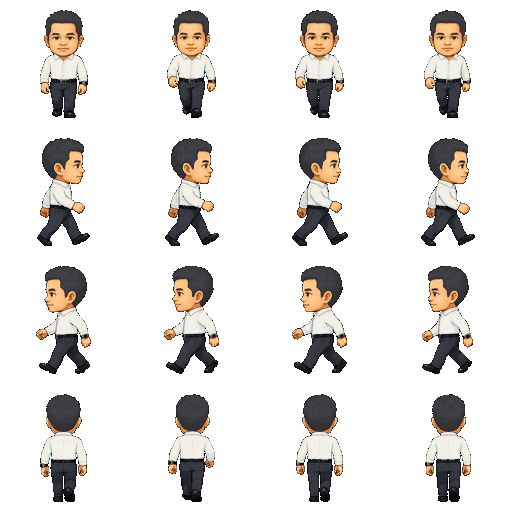
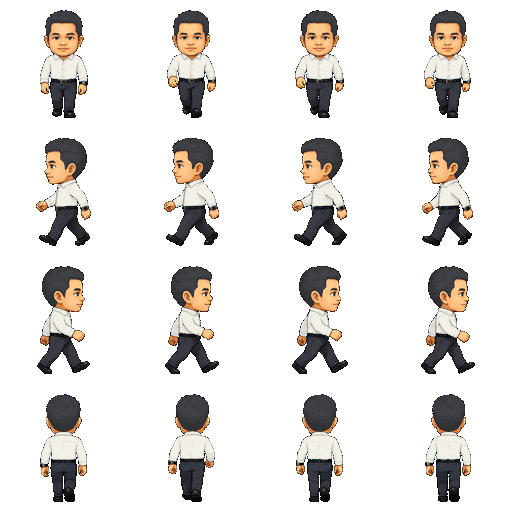
Make the default player character high-resolution with recolor support
The base character everyone starts with (no outfit equipped) now uses
the office_male/office_female sprites from office-avatar-sprites instead
of the legacy 32x50 avatar — same source art the legacy sheet was
downscaled from, so proportions and default colors match exactly. The
legacy avatar system stays fully intact as a fallback (?sprite=none,
or if the hi-res asset fails to load) per the standing "never remove
legacy" constraint.

Hair/shirt recolor — previously legacy-only — now also works on the
hi-res sprite: sprites.js gained getCustomHiresCanvas(), which reuses
avatar.js's exact recolor algorithm (now exported) against the sheet's
hair/clothing masks and caches the result per (spriteId, hair, shirt)
combo. Remote players get the same treatment: net.js's addRemote() now
sets ent.hair/ent.shirt directly (previously only baked into the legacy
ent.sheet canvas, which drawHiresCharacter() never looked at).

Also fixes a bug in the executive import from the previous commit:
male_cro_spritesheet.png has its left/right rows swapped in the source
(confirmed by build_avatars.py's existing SWAP_LR_PREFIXES, which
already special-cased this exact file for the legacy system) — the
office exec importer didn't apply the same correction, so office_cro
was rendering backwards. Fixed via the same swap logic, applied
identically now.

diff --git a/game/js/sprites.js b/game/js/sprites.js
@@ -13,8 +13,10 @@
 
 import { directionIndex } from "./entities.js";
 import { getSpriteDef } from "./sprites_manifest.js";
+import { applyMaskRecolor } from "./avatar.js";
 
-const _cache = new Map(); // id -> { img, promise, ready, failed }
+const _cache = new Map(); // id -> { img, promise, ready, failed, hairMaskImg, clothingMaskImg }
+const _customCache = new Map(); // `${id}|${hair}|${shirt}` -> HTMLCanvasElement (recolored whole sheet)
 
 function loadImage(src) {
   return new Promise(resolve => {
@@ -28,23 +30,74 @@ function loadImage(src) {
 // เรียกล่วงหน้าตอนรู้แล้วว่าจะใช้ id ไหน (เลือกตัวละครตอนสร้าง + NPC ที่มีจริงในฉากเท่านั้น —
 // "ห้าม preload ทุกตัวละครในระบบ" ตาม requirement H) คืน promise เดิมถ้าเคยเรียกไปแล้ว
 // (ไม่โหลดซ้ำ) resolve เสมอไม่ว่าจะสำเร็จหรือพัง (ไม่ throw — เกมต้องไม่ crash ถ้า asset หาย)
+// ถ้า def มี hairMask/clothingMask (ตัวละครที่ปรับสีได้ เช่น office_male/office_female) โหลด
+// มาสก์คู่กันไปเลย จะได้พร้อมใช้ recolor ทันทีที่ตัวสไปรท์หลักพร้อม ไม่ต้องรอ preload แยกรอบสอง
 export function preloadSprite(id) {
   const def = getSpriteDef(id);
   if (!def) return Promise.resolve(null);
   let entry = _cache.get(id);
   if (entry) return entry.promise;
-  entry = { img: null, ready: false, failed: false, promise: null };
-  entry.promise = loadImage(def.image).then(({ img, ok }) => {
-    entry.img = img;
-    if (ok) entry.ready = true;
+  entry = { img: null, ready: false, failed: false, promise: null, hairMaskImg: null, clothingMaskImg: null };
+  const loads = [loadImage(def.image)];
+  loads.push(def.hairMask ? loadImage(def.hairMask) : Promise.resolve(null));
+  loads.push(def.clothingMask ? loadImage(def.clothingMask) : Promise.resolve(null));
+  entry.promise = Promise.all(loads).then(([main, hair, clothing]) => {
+    entry.img = main.img;
+    if (main.ok) entry.ready = true;
     else {
       entry.failed = true;
       console.warn(`โหลดสไปรท์ตัวละคร "${id}" ไม่สำเร็จ (${def.image}) — ใช้ตัวละครเริ่มต้นแทน`);
     }
+    if (hair && hair.ok) entry.hairMaskImg = hair.img;
+    if (clothing && clothing.ok) entry.clothingMaskImg = clothing.img;
     return entry;
   });
   _cache.set(id, entry);
   return entry.promise;
+}
+
+// สร้าง (หรือคืนจาก cache) sheet ทั้งแผ่นที่ recolor ผม/เสื้อแล้ว — ใช้อัลกอริทึมเดียวกับ avatar.js
+// เป๊ะ (คงความสว่างเดิมของแต่ละพิกเซล คูณด้วยสีเป้าหมาย) แค่ทำงานบน sheet เต็ม (grid 4x4) แทน
+// แถบเดียว ต้อง sourceFrameWidth/Height ตรงกับที่ manifest ประกาศไว้เป๊ะ คืน null ถ้าไม่มีอะไรต้อง
+// recolor (ไม่มี hair/shirt เลือกไว้ หรือตัวละครนี้ไม่รองรับมาสก์) ให้ผู้เรียก fallback ไปใช้ภาพดิบ
+// cache ต่อ (id, hair, shirt) กันสร้าง canvas ใหม่ทุกเฟรม (ห้ามตาม requirement H)
+export function getCustomHiresCanvas(spriteId, hair, shirt) {
+  if (!hair && !shirt) return null;
+  const entry = _cache.get(spriteId);
+  if (!entry || !entry.ready) return null;
+  if ((hair && !entry.hairMaskImg) && (shirt && !entry.clothingMaskImg)) return null;
+  const key = `${spriteId}|${hair || ""}|${shirt || ""}`;
+  let canvas = _customCache.get(key);
+  if (canvas) return canvas;
+
+  const def = getSpriteDef(spriteId);
+  const w = def.sourceFrameWidth * def.columns, h = def.sourceFrameHeight * def.rows;
+  canvas = document.createElement("canvas");
+  canvas.width = w; canvas.height = h;
+  const ctx = canvas.getContext("2d");
+  ctx.imageSmoothingEnabled = false;
+  ctx.drawImage(entry.img, 0, 0, w, h, 0, 0, w, h);
+
+  const maskCanvas = document.createElement("canvas");
+  maskCanvas.width = w; maskCanvas.height = h;
+  const maskCtx = maskCanvas.getContext("2d");
+
+  const img = ctx.getImageData(0, 0, w, h);
+  const d = img.data;
+  if (hair && entry.hairMaskImg) {
+    maskCtx.clearRect(0, 0, w, h);
+    maskCtx.drawImage(entry.hairMaskImg, 0, 0, w, h, 0, 0, w, h);
+    applyMaskRecolor(d, maskCtx.getImageData(0, 0, w, h).data, hair);
+  }
+  if (shirt && entry.clothingMaskImg) {
+    maskCtx.clearRect(0, 0, w, h);
+    maskCtx.drawImage(entry.clothingMaskImg, 0, 0, w, h, 0, 0, w, h);
+    applyMaskRecolor(d, maskCtx.getImageData(0, 0, w, h).data, shirt);
+  }
+  ctx.putImageData(img, 0, 0);
+
+  _customCache.set(key, canvas);
+  return canvas;
 }
 
 // คืน HTMLImageElement ถ้าพร้อมวาดแล้ว (โหลดเสร็จและไม่พัง) — null ถ้ายังไม่เสร็จ/พัง/ไม่รู้จัก id
@@ -79,8 +132,11 @@ export function drawHiresCharacter(ctx, ent, hop = 0) {
   if (!ent.spriteId) return false;
   const def = getSpriteDef(ent.spriteId);
   if (!def) return false; // id ไม่รู้จัก (เช่น client เก่ากว่า/manifest ไม่ตรงกัน) — fallback เงียบ ๆ
-  const img = getSpriteImage(ent.spriteId);
-  if (!img) return false; // ยังโหลดไม่เสร็จ หรือโหลดพัง — fallback ไปวาด avatar เดิมแทน
+  const rawImg = getSpriteImage(ent.spriteId);
+  if (!rawImg) return false; // ยังโหลดไม่เสร็จ หรือโหลดพัง — fallback ไปวาด avatar เดิมแทน
+  // ตัวละครที่ปรับสีผม/เสื้อได้ (มี hairMask/clothingMask ใน manifest เช่น office_male/female) —
+  // ใช้ sheet ที่ recolor แล้วแทนถ้ามีการเลือกสี ไม่งั้นใช้ภาพดิบตามปกติ
+  const img = (ent.hair || ent.shirt) ? (getCustomHiresCanvas(ent.spriteId, ent.hair, ent.shirt) || rawImg) : rawImg;
 
   const dirIdx = directionIndex(ent);
   const frameIdx = frameIndexFor(ent, def);
@@ -110,12 +166,13 @@ export function drawHiresCharacter(ctx, ent, hop = 0) {
 // ---------- พรีวิวหน้าสร้างตัวละคร (section E) ----------
 // contain-fit ลง canvas ขนาด boxW x boxH โดยรักษาสัดส่วนเสมอ (ห้าม stretch/บีบ) ยึดตำแหน่งจาก
 // ground anchor เหมือนกันกับตอนวาดในเกมจริง (ไม่ใช่แค่กึ่งกลางกล่องเฉย ๆ)
-export function drawSpritePreview(ctx, canvas, spriteId, dir = "down") {
+export function drawSpritePreview(ctx, canvas, spriteId, dir = "down", hair = null, shirt = null) {
   const def = getSpriteDef(spriteId);
-  const img = getSpriteImage(spriteId);
+  const rawImg = getSpriteImage(spriteId);
   ctx.imageSmoothingEnabled = false;
   ctx.clearRect(0, 0, canvas.width, canvas.height);
-  if (!def || !img) return false;
+  if (!def || !rawImg) return false;
+  const img = (hair || shirt) ? (getCustomHiresCanvas(spriteId, hair, shirt) || rawImg) : rawImg;
   const boxW = canvas.width, boxH = canvas.height;
   const MARGIN = 0.92; // เผื่อขอบเล็กน้อยกันชนขอบกล่องพอดีเป๊ะ
   // คูณ visualScale ด้วยเพื่อให้พรีวิวตรงกับขนาดจริงตอนเดินในเกม (WYSIWYG กับ Phase H ที่ normalize

diff --git a/game/js/sprites_manifest.js b/game/js/sprites_manifest.js
@@ -153,6 +153,54 @@ export const SPRITE_MANIFEST = [
     tagOffsetY: 0,
   },
   {
+    id: "office_male",
+    name: "พนักงานชาย (ปรับสีผม/เสื้อได้)",
+    image: "assets/characters/office-male-walk-sheet.png",
+    sourceFrameWidth: 128,
+    sourceFrameHeight: 128,
+    columns: 4,
+    rows: 4,
+    directions: ["down", "left", "right", "up"],
+    framesPerDirection: 4,
+    frameDurationMs: 140,
+    displayWidth: 64,
+    displayHeight: 64,
+    anchorX: 64,
+    groundAnchorY: 118,
+    collisionWidth: 20,
+    collisionHeight: 14,
+    hairMask: "assets/characters/office-male-hair-mask.png",
+    clothingMask: "assets/characters/office-male-clothing-mask.png",
+    visualScale: 1,
+    visualOffsetX: 0,
+    visualOffsetY: 0,
+    tagOffsetY: 0,
+  },
+  {
+    id: "office_female",
+    name: "พนักงานหญิง (ปรับสีผม/เสื้อได้)",
+    image: "assets/characters/office-female-walk-sheet.png",
+    sourceFrameWidth: 128,
+    sourceFrameHeight: 128,
+    columns: 4,
+    rows: 4,
+    directions: ["down", "left", "right", "up"],
+    framesPerDirection: 4,
+    frameDurationMs: 140,
+    displayWidth: 64,
+    displayHeight: 64,
+    anchorX: 64,
+    groundAnchorY: 118,
+    collisionWidth: 20,
+    collisionHeight: 14,
+    hairMask: "assets/characters/office-female-hair-mask.png",
+    clothingMask: "assets/characters/office-female-clothing-mask.png",
+    visualScale: 1,
+    visualOffsetX: 0,
+    visualOffsetY: 0,
+    tagOffsetY: 0,
+  },
+  {
     id: "coral_psychic",
     name: "นักไซคิกปะการัง (รุ่นแรก)",
     image: "assets/characters/coral-psychic-walk-sheet.png",

diff --git a/game/js/main.js b/game/js/main.js
@@ -91,13 +91,14 @@ let chosenHair = saved.hair ?? null;    // null = สีเดิมของส
 let chosenShirt = saved.shirt ?? null;
 let chosenPet = saved.pet ?? null;      // null = ไม่มีสัตว์เลี้ยง
 let chosenOutfit = saved.outfit ?? null; // null = ไม่ใส่ชุดคอสตูม ใช้ตัวละครเดิม
-// ตัวละครฐานความละเอียดสูง (ดู sprites_manifest.js) — ไม่มี UI เลือกอีกต่อไป (ย้ายไปเป็น "ชุด"
-// ทั้งหมด, ดู outfit_menu.js) ตั้งใจไม่ restore จาก saved.spriteId แม้ localStorage เก่าจะมีค่าค้าง
-// อยู่ก็ตาม (ผู้เล่นที่เคยเลือกไว้ก่อนหน้านี้ต้องกลับไปเป็นตัวละครพื้นฐานเสมอ) — ตั้งได้แค่ผ่าน
-// ?sprite= URL param เท่านั้น (ใช้เทส ไม่ได้มีทางเข้าถึงจาก UI ปกติ)
-let chosenSpriteId = null;
+// ตัวละครฐานเริ่มต้น = สไปรท์ความละเอียดสูงจาก office-avatar-sprites (office_male/female) แทน
+// avatar เดิม 32x50 แล้ว — ยังปรับสีผม/เสื้อได้เหมือนเดิมทุกประการ (ผ่าน hairMask/clothingMask
+// ใน manifest, ดู sprites.js's getCustomHiresCanvas) ระบบ avatar เดิมยังอยู่ครบไม่ได้ลบ (ดู
+// updatePreview/startGame ด้านล่าง — เป็น fallback ถ้าตั้ง ?sprite=none หรือโหลดสไปรท์ไม่สำเร็จ)
 const HIRES_PREVIEW_BOX = 96; // กล่องพรีวิวใหญ่ (#avatar-preview) สี่เหลี่ยมจัตุรัส — contain-fit
-if (chosenSpriteId) preloadSprite(chosenSpriteId); // โหลดล่วงหน้าให้พรีวิวหน้าสร้างตัวละครไวขึ้น
+const GENDER_SPRITE_IDS = ["office_male", "office_female"];
+let chosenSpriteId = GENDER_SPRITE_IDS[chosenGender];
+preloadSprite(chosenSpriteId); // โหลดล่วงหน้าให้พรีวิวหน้าสร้างตัวละครไวขึ้น
 let chosenPetName = saved.petName ?? "";
 let chosenDept = saved.dept ?? TEAMS[Math.floor(Math.random() * TEAMS.length)].id; // สุ่มทีมให้ครั้งแรก เปลี่ยนได้เสมอ
 if (saved.name) document.getElementById("name-input").value = saved.name;
@@ -111,6 +112,8 @@ function refreshGenderButtons() {
 }
 genderPicker.querySelectorAll("button").forEach(b => b.addEventListener("click", () => {
   chosenGender = Number(b.dataset.gender);
+  chosenSpriteId = GENDER_SPRITE_IDS[chosenGender];
+  preloadSprite(chosenSpriteId);
   refreshGenderButtons();
   updatePreview();
 }));
@@ -203,19 +206,25 @@ function refreshPetPicker() {
 buildPetPicker();
 refreshPetPicker();
 
-// หน้าสร้างตัวละครไม่มี UI เลือกสไปรท์ความละเอียดสูงแล้ว (ย้ายไปเลือกเป็น "ชุด" ในเกมแทนทั้งหมด
-// ผ่านเมนู 👕 — ดู outfit_menu.js) เหลือแค่ตัวละครฐานเดิม (avatar ธรรมดา) ให้เลือกตอนสร้างตัวละคร
-// chosenSpriteId ตั้งค่าได้ทางเดียวคือ ?sprite= URL param (ใช้เทส) — ไม่ restore จาก localStorage
-// เก่าอีกต่อไป (ดูตอนประกาศตัวแปรด้านบน)
+// หน้าสร้างตัวละครไม่มี UI เลือก "ตัวละคร" อื่นนอกจากเพศแล้ว (ตัวเลือกที่เหลือทั้งหมดย้ายไปเป็น
+// "ชุด" ในเกมแทน ผ่านเมนู 👕 — ดู outfit_menu.js) แต่ตัวละครฐานตอนนี้เป็นสไปรท์ความละเอียดสูง
+// (office_male/female) แทน avatar เดิม 32x50 — chosenSpriteId ปกติตั้งตามเพศเสมอ (ดูตอน
+// ประกาศตัวแปรด้านบน) เปลี่ยนเป็นตัวอื่น/ปิดกลับไปใช้ avatar เดิมได้แค่ผ่าน ?sprite= URL param
+// (ใช้เทส) เท่านั้น — ไม่มีทางเข้าถึงจาก UI ปกติ
 function updatePreview() {
   const canvas = document.getElementById("avatar-preview");
-  document.getElementById("custom-cols").classList.toggle("hidden", !!chosenSpriteId);
+  const def = chosenSpriteId ? getSpriteDef(chosenSpriteId) : null;
+  // ซ่อนแถบสีผม/เสื้อเฉพาะตอนตัวละครที่เลือกไว้ (ผ่าน ?sprite= เทส) ไม่รองรับ recolor เลย
+  // (ไม่มี hairMask/clothingMask ใน manifest) — โหมดปกติ (office_male/female หรือ avatar เดิม)
+  // ปรับสีได้เสมอ
+  const supportsRecolor = !chosenSpriteId || !!(def && (def.hairMask || def.clothingMask));
+  document.getElementById("custom-cols").classList.toggle("hidden", !supportsRecolor);
   if (chosenSpriteId) {
     // ขนาดจริง (attribute) ต้องตรงกับขนาดแสดงผล (CSS) เป๊ะ กันภาพถูกยืด/บีบสัดส่วนตอนเบราว์เซอร์
     // scale ให้พอดีกล่อง — โหมด avatar ปกติใช้ CSS ที่ตั้งไว้ล่วงหน้า (64x96) ไม่ต้องยุ่ง inline style
     canvas.width = HIRES_PREVIEW_BOX; canvas.height = HIRES_PREVIEW_BOX;
     canvas.style.width = HIRES_PREVIEW_BOX + "px"; canvas.style.height = HIRES_PREVIEW_BOX + "px";
-    const draw = () => drawSpritePreview(canvas.getContext("2d"), canvas, chosenSpriteId, "down");
+    const draw = () => drawSpritePreview(canvas.getContext("2d"), canvas, chosenSpriteId, "down", chosenHair, chosenShirt);
     draw();
     preloadSprite(chosenSpriteId).then(draw); // เผื่อยังโหลดไม่เสร็จตอนกดเลือกครั้งแรก
     return;
@@ -299,8 +308,8 @@ function startGame() {
     ent.duelWinRate = n.duelWinRate;
     if (n.roomBox) ent.roomBox = n.roomBox.map(v => v * world.tile);
     if (n.hair || n.shirt) ent.sheet = makeCustomSheet(world, n.variant, { hair: n.hair, shirt: n.shirt });
-    // เผื่ออนาคตอยาก assign สไปรท์ความละเอียดสูงให้ NPC บางคน (data.js เพิ่ม n.spriteId เข้าไป) —
-    // ไม่มี NPC ไหนใช้ตอนนี้ (ทุกคนยังเป็นระบบ avatar เดิม) โค้ดนี้เป็น no-op จนกว่าจะมีคนตั้งค่า
+    // ผู้บริหารทั้ง 6 คนตั้ง spriteId ไว้ใน data.js (พอร์ตเรทเฉพาะจาก office-avatar-sprites) —
+    // NPC คนอื่นที่ไม่ได้ตั้งค่านี้ยังใช้ระบบ avatar เดิมตามปกติ
     if (n.spriteId) {
       ent.spriteId = n.spriteId;
       preloadSprite(n.spriteId); // เฉพาะ NPC ที่อยู่ในฉากจริงเท่านั้น (ไม่ preload สไปรท์ทั้งระบบ)

diff --git a/game/js/net.js b/game/js/net.js
@@ -127,6 +127,11 @@ export function addRemote(world, info) {
   });
   ent.dir = info.dir || "down";
   ent.tx = info.x; ent.ty = info.y;
+  // เก็บ hair/shirt ไว้ตรง ๆ ด้วย (ไม่ใช่แค่ baked ลง ent.sheet) — drawHiresCharacter() ใน
+  // sprites.js อ่านจาก ent.hair/ent.shirt ตรง ๆ เพื่อ recolor สไปรท์ความละเอียดสูง (office_male/
+  // female) ส่วน ent.sheet ยังคงไว้เป็น fallback ให้ระบบ avatar เดิมเหมือนก่อน
+  ent.hair = info.hair || null;
+  ent.shirt = info.shirt || null;
   if (info.hair || info.shirt) {
     ent.sheet = makeCustomSheet(world, ent.variant, { hair: info.hair, shirt: info.shirt });
   }

diff --git a/game/js/avatar.js b/game/js/avatar.js
@@ -18,7 +18,9 @@ function maskRowData(maskImg, variant, w, h, frameH) {
   return cx.getImageData(0, 0, w, h).data;
 }
 
-function applyMaskRecolor(d, maskData, targetHex) {
+// exported เพื่อให้ sprites.js (ตัวละครความละเอียดสูง) เรียกใช้อัลกอริทึม recolor เดียวกันได้
+// โดยไม่ต้อง duplicate โค้ด — ทำงานบน ImageData ธรรมดา ไม่ผูกกับขนาดเฟรม/เลย์เอาต์ระบบไหนเป็นพิเศษ
+export function applyMaskRecolor(d, maskData, targetHex) {
   const [tr, tg, tb] = hexToRgb(targetHex);
   let lo = 255, hi = 0;
   for (let i = 0; i < maskData.length; i += 4) {

diff --git a/scripts/build_character_manifest.py b/scripts/build_character_manifest.py
@@ -112,13 +112,17 @@ NAME_OVERRIDES = {
     "office_cfo": "CFO",
     "office_cdo": "CDO",
     "office_cro": "CRO",
+    "office_male": "พนักงานชาย (ปรับสีผม/เสื้อได้)",
+    "office_female": "พนักงานหญิง (ปรับสีผม/เสื้อได้)",
 }
 
-# Purpose-built executive portraits (pixel-art/office-avatar-sprites/) — separate from the
-# general pixel-art/**/*-walk-sheet.png discovery above because this set uses its own sheet
-# convention (see sprites.json: directions ["front","right","left","back"], not our usual
-# ["down","left","right","up"] — "right" and "left" are in the OPPOSITE order too) and its own
-# versioning scheme (bare name = v1, "_v2" suffix = newer). id -> latest source basename.
+# Purpose-built office/executive portraits (pixel-art/office-avatar-sprites/) — separate from
+# the general pixel-art/**/*-walk-sheet.png discovery above because this set uses its own
+# sheet convention (see sprites.json: directions ["front","right","left","back"], not our
+# usual ["down","left","right","up"] — "right" and "left" are in the OPPOSITE order too) and
+# its own versioning scheme (bare name = v1, "_v2" suffix = newer). id -> latest source
+# basename. "office_male"/"office_female" are the generic, freely-recolorable player-facing
+# variants (see HAIR/CLOTHING_MASK_IDS below); the rest are bespoke per-exec designs.
 OFFICE_AVATAR_DIR = ROOT / "pixel-art" / "office-avatar-sprites"
 OFFICE_EXEC_SOURCES = {
     "office_ceo": "male_ceo_v2",
@@ -127,7 +131,20 @@ OFFICE_EXEC_SOURCES = {
     "office_cdo": "female_cdo_v2",
     "office_cfo": "male_cfo",   # no v2 exists for this role
     "office_cro": "male_cro",  # no v2 exists for this role
+    "office_male": "male",
+    "office_female": "female",
 }
+
+# office-avatar-sprites ids whose hair_mask/clothing_mask should be wired into the manifest
+# for runtime recolor (see sprites.js's hi-res recolor support) — only the two generic
+# variants are meant to be freely recolored; the exec portraits are bespoke, used as-is
+# (matches build_avatars.py's precedent: "แถวที่ 2+ ... ใช้ as-is ไม่ recolor").
+OFFICE_RECOLORABLE_IDS = {"office_male", "office_female"}
+
+# male_cro_spritesheet.png's "right"/"left" rows are swapped in the source (confirmed by
+# build_avatars.py's SWAP_LR_PREFIXES, which already special-cases exactly this one file for
+# the legacy avatar system) — apply the same correction here.
+OFFICE_SWAP_LR_IDS = {"office_cro"}
 
 
 def to_id(stem: str) -> str:
@@ -252,16 +269,18 @@ def fix_swapped_lr(dest_png: Path, meta: dict):
 
 
 def import_office_execs(dry_run: bool):
-    """Import the 6 purpose-built executive portraits (see OFFICE_EXEC_SOURCES) — reorders
-    rows from the source convention (front,right,left,back) to ours (down,left,right,up),
-    since source row 1/2 are also in the opposite left/right order from what we use
-    elsewhere. Returns a list of manifest-entry dicts (same shape as the regular pipeline)."""
+    """Import the office-avatar-sprites portraits (see OFFICE_EXEC_SOURCES: 6 execs + the 2
+    generic recolorable player variants) — reorders rows from the source convention
+    (front,right,left,back) to ours (down,left,right,up), since source row 1/2 are also in
+    the opposite left/right order from what we use elsewhere. Returns a list of
+    manifest-entry dicts (same shape as the regular pipeline)."""
     entries = []
     fw = fh = 128
     frames_per_dir = 4
     directions = ["down", "left", "right", "up"]
     # source row index for each of OUR target rows (down,left,right,up)
-    src_row_for_target = [0, 2, 1, 3]  # front->down, left->left(src idx2), right->right(src idx1), back->up
+    default_src_row_for_target = [0, 2, 1, 3]  # front->down, left->left(src idx2), right->right(src idx1), back->up
+    swapped_src_row_for_target = [0, 1, 2, 3]  # OFFICE_SWAP_LR_IDS: left/right read from the opposite-labeled row
 
     for id_, basename in OFFICE_EXEC_SOURCES.items():
         src_png = OFFICE_AVATAR_DIR / f"{basename}_spritesheet.png"
@@ -273,6 +292,7 @@ def import_office_execs(dry_run: bool):
             print(f"  ! office exec {id_} unexpected size {img.size}, skipping")
             continue
 
+        src_row_for_target = swapped_src_row_for_target if id_ in OFFICE_SWAP_LR_IDS else default_src_row_for_target
         reordered = Image.new("RGBA", img.size, (0, 0, 0, 0))
         for target_row, src_row in enumerate(src_row_for_target):
             strip = img.crop((0, src_row * fh, fw * frames_per_dir, (src_row + 1) * fh))
@@ -286,6 +306,9 @@ def import_office_execs(dry_run: bool):
         png_name = f"{id_.replace('_', '-')}-walk-sheet.png"
         hair_name = f"{id_.replace('_', '-')}-hair-mask.png"
         clothing_name = f"{id_.replace('_', '-')}-clothing-mask.png"
+        recolorable = id_ in OFFICE_RECOLORABLE_IDS
+        hair_mask_ref = f"assets/characters/{hair_name}" if recolorable else None
+        clothing_mask_ref = f"assets/characters/{clothing_name}" if recolorable else None
 
         if not dry_run:
             OUT_DIR.mkdir(parents=True, exist_ok=True)
@@ -315,8 +338,8 @@ def import_office_execs(dry_run: bool):
             "groundAnchorY": ground_anchor_y,
             "collisionWidth": 20,
             "collisionHeight": 14,
-            "hairMask": None,
-            "clothingMask": None,
+            "hairMask": hair_mask_ref,
+            "clothingMask": clothing_mask_ref,
             "visualScale": overrides.get("visualScale", 1),
             "visualOffsetX": overrides.get("visualOffsetX", 0),
             "visualOffsetY": overrides.get("visualOffsetY", 0),